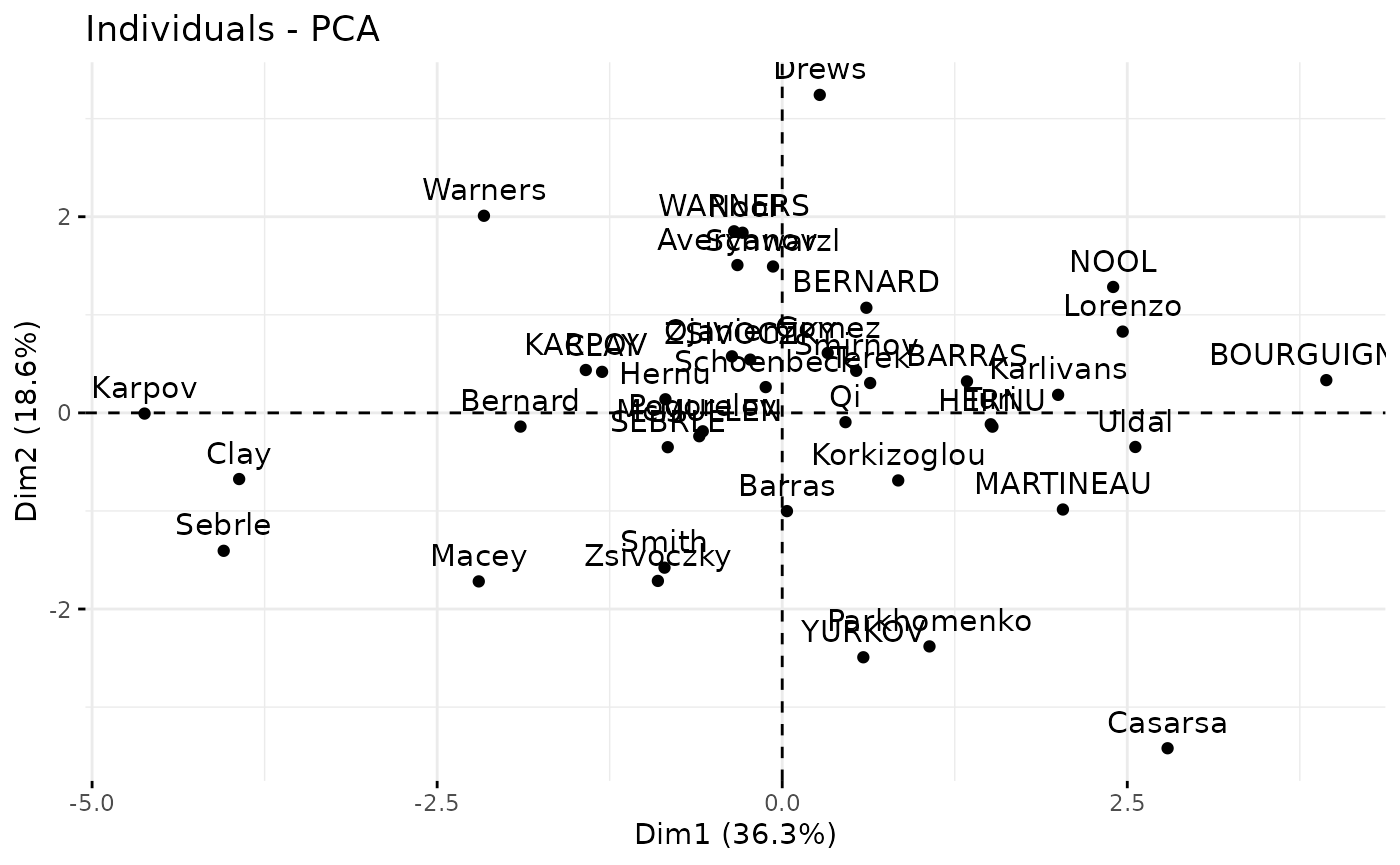
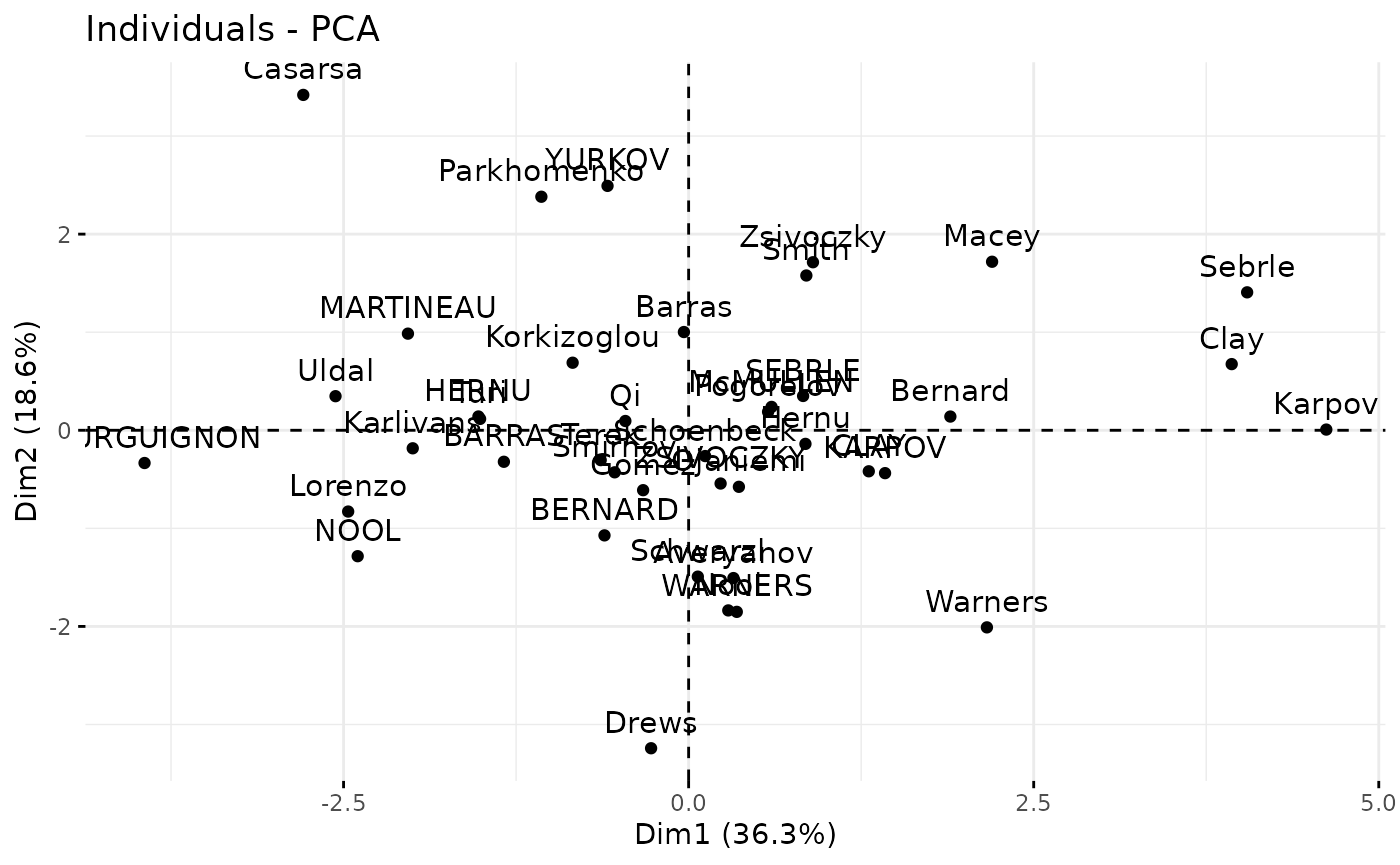
Deploying to gh-pages from @ alexym1/FactoMineR2@7524c19473789fed3b130e2c610a478fc69c338d 🚀

diff --git a/articles/Comparison.html b/articles/Comparison.html
@@ -30,7 +30,7 @@
 
     <a class="navbar-brand me-2" href="../index.html">FactoMineR2</a>
 
-    <small class="nav-text text-muted me-auto" data-bs-toggle="tooltip" data-bs-placement="bottom" title="Released version">0.2.0</small>
+    <small class="nav-text text-muted me-auto" data-bs-toggle="tooltip" data-bs-placement="bottom" title="Released version">0.2.1</small>
 
 
     <button class="navbar-toggler" type="button" data-bs-toggle="collapse" data-bs-target="#navbar" aria-controls="navbar" aria-expanded="false" aria-label="Toggle navigation">
@@ -103,12 +103,9 @@ packages.</p>
 <div class="sourceCode" id="cb3"><pre class="downlit sourceCode r">
 <code class="sourceCode R"><span><span class="co"># Get eigvalues and eigvectors with FactoMineR2</span></span>
 <span><span class="va">X_active</span> <span class="op">&lt;-</span> <span class="va">X</span><span class="op">[</span><span class="op">-</span><span class="fl">1</span>, <span class="op">-</span><span class="fl">10</span><span class="op">]</span></span>
+<span><span class="va">X_active_scaled</span> <span class="op">&lt;-</span> <span class="fu"><a href="../reference/standardize_norm.html">standardize</a></span><span class="op">(</span><span class="va">X_active</span>, scale <span class="op">=</span> <span class="cn">TRUE</span><span class="op">)</span></span>
 <span></span>
-<span><span class="va">X_active_scaled</span> <span class="op">&lt;-</span> <span class="va">X_active</span> <span class="op">|&gt;</span></span>
-<span>  <span class="fu"><a href="../reference/standardize_norm.html">standardize</a></span><span class="op">(</span>scale <span class="op">=</span> <span class="cn">TRUE</span><span class="op">)</span></span>
-<span></span>
-<span><span class="va">eigs</span> <span class="op">&lt;-</span> <span class="va">X_active_scaled</span> <span class="op">|&gt;</span></span>
-<span>    <span class="fu"><a href="../reference/get_eigen.html">get_weighted_eigen</a></span><span class="op">(</span><span class="op">)</span></span>
+<span><span class="va">eigs</span> <span class="op">&lt;-</span> <span class="fu"><a href="../reference/get_eigen.html">get_weighted_eigen</a></span><span class="op">(</span><span class="va">X_active_scaled</span><span class="op">)</span></span>
 <span></span>
 <span><span class="va">df_eigs</span> <span class="op">&lt;-</span> <span class="fu"><a href="https://rdrr.io/r/base/data.frame.html" class="external-link">data.frame</a></span><span class="op">(</span></span>
 <span>    eigenvalue <span class="op">=</span> <span class="va">eigs</span><span class="op">$</span><span class="va">values</span>,</span>
@@ -145,15 +142,15 @@ packages.</p>
 <span><span class="co">#&gt; ZSIVOCZKY  0.2692284 -0.4794763 -1.9969562 -0.258190426 -0.13749027</span></span></code></pre></div>
 <div class="sourceCode" id="cb5"><pre class="downlit sourceCode r">
 <code class="sourceCode R"><span><span class="co"># Get principal components with FactoMineR2</span></span>
-<span><span class="va">ind_coords</span> <span class="op">&lt;-</span> <span class="va">X_active_scaled</span> <span class="op">|&gt;</span> <span class="fu"><a href="../reference/pca_ind_coords.html">pca_ind_coords</a></span><span class="op">(</span><span class="va">eigs</span><span class="op">$</span><span class="va">vectors</span><span class="op">)</span></span>
-<span><span class="va">ind_coords</span><span class="op">[</span>,<span class="fl">1</span><span class="op">:</span><span class="fl">5</span><span class="op">]</span>  <span class="op">|&gt;</span> <span class="fu"><a href="https://rdrr.io/r/utils/head.html" class="external-link">head</a></span><span class="op">(</span><span class="op">)</span></span>
+<span><span class="va">ind_coords</span> <span class="op">&lt;-</span> <span class="fu"><a href="../reference/pca_ind_coords.html">pca_ind_coords</a></span><span class="op">(</span><span class="va">X_active_scaled</span>, <span class="va">eigs</span><span class="op">$</span><span class="va">vectors</span><span class="op">)</span></span>
+<span><span class="fu"><a href="https://rdrr.io/r/utils/head.html" class="external-link">head</a></span><span class="op">(</span><span class="va">ind_coords</span><span class="op">[</span>,<span class="fl">1</span><span class="op">:</span><span class="fl">5</span><span class="op">]</span><span class="op">)</span></span>
 <span><span class="co">#&gt;                Dim.1      Dim.2      Dim.3        Dim.4       Dim.5</span></span>
-<span><span class="co">#&gt; CLAY       1.3100544  0.4159492  0.5208056 -0.369856466  2.17766124</span></span>
-<span><span class="co">#&gt; KARPOV     1.4371854  0.4206194 -0.9485451 -2.055098128  0.08739926</span></span>
-<span><span class="co">#&gt; BERNARD   -0.6048025  1.1039234  2.2461329  0.308551094 -0.52147527</span></span>
-<span><span class="co">#&gt; YURKOV    -0.5701719 -2.4598460  0.6145443 -0.002631539 -1.26970612</span></span>
-<span><span class="co">#&gt; WARNERS    0.3739047  1.8369980 -0.4725537 -0.728066088 -0.69493980</span></span>
-<span><span class="co">#&gt; ZSIVOCZKY  0.2692284  0.4794763 -1.9969562  0.258190426  0.13749027</span></span></code></pre></div>
+<span><span class="co">#&gt; CLAY       1.3100544 -0.4159492  0.5208056  0.369856466 -2.17766124</span></span>
+<span><span class="co">#&gt; KARPOV     1.4371854 -0.4206194 -0.9485451  2.055098128 -0.08739926</span></span>
+<span><span class="co">#&gt; BERNARD   -0.6048025 -1.1039234  2.2461329 -0.308551094  0.52147527</span></span>
+<span><span class="co">#&gt; YURKOV    -0.5701719  2.4598460  0.6145443  0.002631539  1.26970612</span></span>
+<span><span class="co">#&gt; WARNERS    0.3739047 -1.8369980 -0.4725537  0.728066088  0.69493980</span></span>
+<span><span class="co">#&gt; ZSIVOCZKY  0.2692284 -0.4794763 -1.9969562 -0.258190426 -0.13749027</span></span></code></pre></div>
 <div class="sourceCode" id="cb6"><pre class="downlit sourceCode r">
 <code class="sourceCode R"><span><span class="co"># Get individual cos2 with FactoMineR</span></span>
 <span><span class="fu"><a href="https://rdrr.io/r/utils/head.html" class="external-link">head</a></span><span class="op">(</span><span class="va">res_pca</span><span class="op">$</span><span class="va">ind</span><span class="op">$</span><span class="va">cos2</span><span class="op">)</span></span>
@@ -166,8 +163,8 @@ packages.</p>
 <span><span class="co">#&gt; ZSIVOCZKY 0.01324414 0.04200650 0.72865053 1.218043e-02 0.003454030</span></span></code></pre></div>
 <div class="sourceCode" id="cb7"><pre class="downlit sourceCode r">
 <code class="sourceCode R"><span><span class="co"># Get individual cos2 with FactoMineR2</span></span>
-<span><span class="va">ind_cos2</span> <span class="op">&lt;-</span> <span class="va">ind_coords</span> <span class="op">|&gt;</span> <span class="fu"><a href="../reference/pca_ind_cos2.html">pca_ind_cos2</a></span><span class="op">(</span><span class="op">)</span></span>
-<span><span class="va">ind_cos2</span><span class="op">[</span>,<span class="fl">1</span><span class="op">:</span><span class="fl">5</span><span class="op">]</span> <span class="op">|&gt;</span> <span class="fu"><a href="https://rdrr.io/r/utils/head.html" class="external-link">head</a></span><span class="op">(</span><span class="op">)</span></span>
+<span><span class="va">ind_cos2</span> <span class="op">&lt;-</span> <span class="fu"><a href="../reference/pca_ind_cos2.html">pca_ind_cos2</a></span><span class="op">(</span><span class="va">ind_coords</span><span class="op">)</span></span>
+<span><span class="fu"><a href="https://rdrr.io/r/utils/head.html" class="external-link">head</a></span><span class="op">(</span><span class="va">ind_cos2</span><span class="op">[</span>,<span class="fl">1</span><span class="op">:</span><span class="fl">5</span><span class="op">]</span><span class="op">)</span></span>
 <span><span class="co">#&gt;                Dim.1      Dim.2      Dim.3        Dim.4       Dim.5</span></span>
 <span><span class="co">#&gt; CLAY      0.20619906 0.02078684 0.03258812 1.643518e-02 0.569755684</span></span>
 <span><span class="co">#&gt; KARPOV    0.25723191 0.02203321 0.11205086 5.259741e-01 0.000951294</span></span>
@@ -187,8 +184,8 @@ packages.</p>
 <span><span class="co">#&gt; ZSIVOCZKY 0.05521748 0.3402134  9.3620727 1.943986e-01  0.07443229</span></span></code></pre></div>
 <div class="sourceCode" id="cb9"><pre class="downlit sourceCode r">
 <code class="sourceCode R"><span><span class="co"># Get individual contributions with FactoMineR2</span></span>
-<span><span class="va">ind_contrib</span> <span class="op">&lt;-</span> <span class="va">ind_coords</span> <span class="op">|&gt;</span> <span class="fu"><a href="../reference/pca_ind_contrib.html">pca_ind_contrib</a></span><span class="op">(</span><span class="va">df_eigs</span><span class="op">$</span><span class="va">eigenvalue</span><span class="op">)</span></span>
-<span><span class="va">ind_contrib</span><span class="op">[</span>,<span class="fl">1</span><span class="op">:</span><span class="fl">5</span><span class="op">]</span> <span class="op">|&gt;</span> <span class="fu"><a href="https://rdrr.io/r/utils/head.html" class="external-link">head</a></span><span class="op">(</span><span class="op">)</span></span>
+<span><span class="va">ind_contrib</span> <span class="op">&lt;-</span> <span class="fu"><a href="../reference/pca_ind_contrib.html">pca_ind_contrib</a></span><span class="op">(</span><span class="va">ind_coords</span>, <span class="va">df_eigs</span><span class="op">$</span><span class="va">eigenvalue</span><span class="op">)</span></span>
+<span><span class="fu"><a href="https://rdrr.io/r/utils/head.html" class="external-link">head</a></span><span class="op">(</span><span class="va">ind_contrib</span><span class="op">[</span>,<span class="fl">1</span><span class="op">:</span><span class="fl">5</span><span class="op">]</span><span class="op">)</span></span>
 <span><span class="co">#&gt;                Dim.1     Dim.2      Dim.3        Dim.4       Dim.5</span></span>
 <span><span class="co">#&gt; CLAY      1.30741518 0.2560340  0.6367752 3.989140e-01 18.67231141</span></span>
 <span><span class="co">#&gt; KARPOV    1.57347720 0.2618157  2.1122769 1.231623e+01  0.03007689</span></span>
@@ -216,7 +213,7 @@ packages.</p>
 <span><span class="va">ind_sup_coords</span> <span class="op">&lt;-</span> <span class="va">X_sup_scaled</span> <span class="op">|&gt;</span> <span class="fu"><a href="../reference/pca_ind_coords.html">pca_ind_coords</a></span><span class="op">(</span><span class="va">eigs</span><span class="op">$</span><span class="va">vectors</span><span class="op">)</span></span>
 <span><span class="va">ind_sup_coords</span><span class="op">[</span>,<span class="fl">1</span><span class="op">:</span><span class="fl">5</span><span class="op">]</span></span>
 <span><span class="co">#&gt;      Dim.1      Dim.2      Dim.3      Dim.4      Dim.5 </span></span>
-<span><span class="co">#&gt;  0.8344973 -0.3186264  1.2145584  0.2014840 -1.2818827</span></span></code></pre></div>
+<span><span class="co">#&gt;  0.8344973  0.3186264  1.2145584 -0.2014840  1.2818827</span></span></code></pre></div>
 <div class="sourceCode" id="cb12"><pre class="downlit sourceCode r">
 <code class="sourceCode R"><span><span class="co"># Get supplementary individuals cos2 with FactoMineR</span></span>
 <span><span class="va">res_pca</span><span class="op">$</span><span class="va">ind.sup</span><span class="op">$</span><span class="va">cos2</span></span>
@@ -224,7 +221,7 @@ packages.</p>
 <span><span class="co">#&gt; SEBRLE 0.1505617 0.02194968 0.3189345 0.008776992 0.3552722</span></span></code></pre></div>
 <div class="sourceCode" id="cb13"><pre class="downlit sourceCode r">
 <code class="sourceCode R"><span><span class="co"># Get supplementary individuals cos2 with FactoMineR2</span></span>
-<span><span class="va">ind_sup_cos2</span> <span class="op">&lt;-</span> <span class="va">ind_sup_coords</span> <span class="op">|&gt;</span> <span class="fu"><a href="../reference/pca_ind_cos2.html">pca_ind_cos2</a></span><span class="op">(</span><span class="op">)</span></span>
+<span><span class="va">ind_sup_cos2</span> <span class="op">&lt;-</span> <span class="fu"><a href="../reference/pca_ind_cos2.html">pca_ind_cos2</a></span><span class="op">(</span><span class="va">ind_sup_coords</span><span class="op">)</span></span>
 <span><span class="va">ind_sup_cos2</span><span class="op">[</span>,<span class="fl">1</span><span class="op">:</span><span class="fl">5</span><span class="op">]</span></span>
 <span><span class="co">#&gt;       Dim.1       Dim.2       Dim.3       Dim.4       Dim.5 </span></span>
 <span><span class="co">#&gt; 0.150561716 0.021949682 0.318934499 0.008776992 0.355272243</span></span></code></pre></div>
@@ -244,15 +241,15 @@ packages.</p>
 <span><span class="co">#&gt; 110m.hurdle -0.7510101  0.2498147  0.23834558 -0.06295776  0.22508937</span></span></code></pre></div>
 <div class="sourceCode" id="cb15"><pre class="downlit sourceCode r">
 <code class="sourceCode R"><span><span class="co"># Get variable coordinates with FactoMineR2</span></span>
-<span><span class="va">var_coords</span> <span class="op">&lt;-</span> <span class="va">df_eigs</span><span class="op">$</span><span class="va">eigenvalue</span> <span class="op">|&gt;</span> <span class="fu"><a href="../reference/pca_var_coords.html">pca_var_coords</a></span><span class="op">(</span><span class="va">eigs</span><span class="op">$</span><span class="va">vectors</span><span class="op">)</span></span>
-<span><span class="va">var_coords</span><span class="op">[</span>,<span class="fl">1</span><span class="op">:</span><span class="fl">5</span><span class="op">]</span> <span class="op">|&gt;</span> <span class="fu"><a href="https://rdrr.io/r/utils/head.html" class="external-link">head</a></span><span class="op">(</span><span class="op">)</span></span>
+<span><span class="va">var_coords</span> <span class="op">&lt;-</span> <span class="fu"><a href="../reference/pca_var_coords.html">pca_var_coords</a></span><span class="op">(</span><span class="va">df_eigs</span><span class="op">$</span><span class="va">eigenvalue</span>, <span class="va">eigs</span><span class="op">$</span><span class="va">vectors</span><span class="op">)</span></span>
+<span><span class="fu"><a href="https://rdrr.io/r/utils/head.html" class="external-link">head</a></span><span class="op">(</span><span class="va">var_coords</span><span class="op">[</span>,<span class="fl">1</span><span class="op">:</span><span class="fl">5</span><span class="op">]</span><span class="op">)</span></span>
 <span><span class="co">#&gt;                  Dim.1      Dim.2       Dim.3       Dim.4       Dim.5</span></span>
-<span><span class="co">#&gt; 100m        -0.7802087 -0.2474540 -0.07802294 -0.15739065 -0.10348090</span></span>
-<span><span class="co">#&gt; Long.jump    0.7418925  0.4073126  0.05696965  0.10200465 -0.12853454</span></span>
-<span><span class="co">#&gt; Shot.put     0.6230146 -0.5713999  0.28623659 -0.22239225  0.02547125</span></span>
-<span><span class="co">#&gt; High.jump    0.5704197 -0.4191676 -0.24210464 -0.09178538 -0.63728214</span></span>
-<span><span class="co">#&gt; 400m        -0.6756524 -0.4720254  0.12379407 -0.12444012  0.02216888</span></span>
-<span><span class="co">#&gt; 110m.hurdle -0.7510101 -0.2498147  0.23834558  0.06295776 -0.22508937</span></span></code></pre></div>
+<span><span class="co">#&gt; 100m        -0.7802087  0.2474540 -0.07802294  0.15739065  0.10348090</span></span>
+<span><span class="co">#&gt; Long.jump    0.7418925 -0.4073126  0.05696965 -0.10200465  0.12853454</span></span>
+<span><span class="co">#&gt; Shot.put     0.6230146  0.5713999  0.28623659  0.22239225 -0.02547125</span></span>
+<span><span class="co">#&gt; High.jump    0.5704197  0.4191676 -0.24210464  0.09178538  0.63728214</span></span>
+<span><span class="co">#&gt; 400m        -0.6756524  0.4720254  0.12379407  0.12444012 -0.02216888</span></span>
+<span><span class="co">#&gt; 110m.hurdle -0.7510101  0.2498147  0.23834558 -0.06295776  0.22508937</span></span></code></pre></div>
 <div class="sourceCode" id="cb16"><pre class="downlit sourceCode r">
 <code class="sourceCode R"><span><span class="co"># Get variable cos2 with FactoMineR</span></span>
 <span><span class="fu"><a href="https://rdrr.io/r/utils/head.html" class="external-link">head</a></span><span class="op">(</span><span class="va">res_pca</span><span class="op">$</span><span class="va">var</span><span class="op">$</span><span class="va">cos2</span><span class="op">)</span></span>
@@ -265,8 +262,8 @@ packages.</p>
 <span><span class="co">#&gt; 110m.hurdle 0.5640162 0.06240739 0.056808617 0.003963679 0.0506652236</span></span></code></pre></div>
 <div class="sourceCode" id="cb17"><pre class="downlit sourceCode r">
 <code class="sourceCode R"><span><span class="co"># Get variable cos2 with FactoMineR2</span></span>
-<span><span class="va">var_cos2</span> <span class="op">&lt;-</span> <span class="va">var_coords</span> <span class="op">|&gt;</span> <span class="fu"><a href="../reference/pca_var_cos2.html">pca_var_cos2</a></span><span class="op">(</span><span class="op">)</span></span>
-<span><span class="va">var_cos2</span><span class="op">[</span>,<span class="fl">1</span><span class="op">:</span><span class="fl">5</span><span class="op">]</span> <span class="op">|&gt;</span> <span class="fu"><a href="https://rdrr.io/r/utils/head.html" class="external-link">head</a></span><span class="op">(</span><span class="op">)</span></span>
+<span><span class="va">var_cos2</span> <span class="op">&lt;-</span> <span class="fu"><a href="../reference/pca_var_cos2.html">pca_var_cos2</a></span><span class="op">(</span><span class="va">var_coords</span><span class="op">)</span></span>
+<span><span class="fu"><a href="https://rdrr.io/r/utils/head.html" class="external-link">head</a></span><span class="op">(</span><span class="va">var_cos2</span><span class="op">[</span>,<span class="fl">1</span><span class="op">:</span><span class="fl">5</span><span class="op">]</span><span class="op">)</span></span>
 <span><span class="co">#&gt;                 Dim.1      Dim.2       Dim.3       Dim.4        Dim.5</span></span>
 <span><span class="co">#&gt; 100m        0.6087256 0.06123346 0.006087579 0.024771818 0.0107082970</span></span>
 <span><span class="co">#&gt; Long.jump   0.5504045 0.16590352 0.003245541 0.010404949 0.0165211277</span></span>
@@ -286,8 +283,8 @@ packages.</p>
 <span><span class="co">#&gt; 110m.hurdle 17.18646  3.694139 5.3346892 0.4623504  7.97971527</span></span></code></pre></div>
 <div class="sourceCode" id="cb19"><pre class="downlit sourceCode r">
 <code class="sourceCode R"><span><span class="co"># Get variable contributions with FactoMineR2</span></span>
-<span><span class="va">var_contrib</span> <span class="op">&lt;-</span> <span class="va">var_cos2</span> <span class="op">|&gt;</span> <span class="fu"><a href="../reference/pca_var_contrib.html">pca_var_contrib</a></span><span class="op">(</span><span class="op">)</span></span>
-<span><span class="va">var_contrib</span><span class="op">[</span>,<span class="fl">1</span><span class="op">:</span><span class="fl">5</span><span class="op">]</span> <span class="op">|&gt;</span> <span class="fu"><a href="https://rdrr.io/r/utils/head.html" class="external-link">head</a></span><span class="op">(</span><span class="op">)</span></span>
+<span><span class="va">var_contrib</span> <span class="op">&lt;-</span> <span class="fu"><a href="../reference/pca_var_contrib.html">pca_var_contrib</a></span><span class="op">(</span><span class="va">var_cos2</span><span class="op">)</span></span>
+<span><span class="fu"><a href="https://rdrr.io/r/utils/head.html" class="external-link">head</a></span><span class="op">(</span><span class="va">var_contrib</span><span class="op">[</span>,<span class="fl">1</span><span class="op">:</span><span class="fl">5</span><span class="op">]</span><span class="op">)</span></span>
 <span><span class="co">#&gt;                Dim.1     Dim.2     Dim.3     Dim.4       Dim.5</span></span>
 <span><span class="co">#&gt; 100m        18.54882  3.624649 0.5716623 2.8895531  1.68654464</span></span>
 <span><span class="co">#&gt; Long.jump   16.77169  9.820481 0.3047769 1.2137039  2.60205888</span></span>
@@ -307,14 +304,9 @@ packages.</p>
 <div class="sourceCode" id="cb21"><pre class="downlit sourceCode r">
 <code class="sourceCode R"><span><span class="co"># Get supplementary CONTINUOUS variables coordinates with FactoMineR2</span></span>
 <span><span class="va">X_sup</span> <span class="op">&lt;-</span> <span class="va">X</span><span class="op">[</span><span class="op">-</span><span class="fl">1</span>, <span class="fl">10</span>, drop <span class="op">=</span> <span class="cn">FALSE</span><span class="op">]</span></span>
+<span><span class="va">X_sup_scaled</span> <span class="op">&lt;-</span> <span class="fu"><a href="../reference/standardize_norm.html">standardize</a></span><span class="op">(</span><span class="va">X_sup</span>, scale <span class="op">=</span> <span class="cn">TRUE</span><span class="op">)</span></span>
 <span></span>
-<span><span class="va">center</span> <span class="op">&lt;-</span> <span class="fu"><a href="https://rdrr.io/r/base/vector.html" class="external-link">as.vector</a></span><span class="op">(</span><span class="fu"><a href="https://rdrr.io/r/base/crossprod.html" class="external-link">crossprod</a></span><span class="op">(</span><span class="va">weights</span>, <span class="fu"><a href="https://rdrr.io/r/base/matrix.html" class="external-link">as.matrix</a></span><span class="op">(</span><span class="va">X_sup</span><span class="op">)</span><span class="op">)</span><span class="op">)</span></span>
-<span><span class="va">std</span> <span class="op">&lt;-</span> <span class="fu"><a href="https://rdrr.io/r/base/MathFun.html" class="external-link">sqrt</a></span><span class="op">(</span><span class="fu"><a href="https://rdrr.io/r/base/vector.html" class="external-link">as.vector</a></span><span class="op">(</span><span class="fu"><a href="https://rdrr.io/r/base/crossprod.html" class="external-link">crossprod</a></span><span class="op">(</span><span class="va">weights</span>, <span class="fu"><a href="https://rdrr.io/r/base/matrix.html" class="external-link">as.matrix</a></span><span class="op">(</span><span class="va">X_sup</span><span class="op">^</span><span class="fl">2</span><span class="op">)</span><span class="op">)</span> <span class="op">-</span> <span class="va">center</span><span class="op">^</span><span class="fl">2</span><span class="op">)</span><span class="op">)</span> </span>
-<span><span class="va">X_sup_scaled</span> <span class="op">&lt;-</span> <span class="op">(</span><span class="va">X_sup</span> <span class="op">-</span> <span class="va">center</span><span class="op">)</span> <span class="op">/</span> <span class="va">std</span> </span>
-<span></span>
-<span><span class="va">A</span> <span class="op">&lt;-</span> <span class="fu"><a href="https://rdrr.io/r/base/t.html" class="external-link">t</a></span><span class="op">(</span><span class="va">X_sup_scaled</span> <span class="op">*</span> <span class="va">weights</span><span class="op">)</span></span>
-<span><span class="va">U</span> <span class="op">&lt;-</span> <span class="fu"><a href="https://rdrr.io/pkg/FactoMineR/man/svd.triplet.html" class="external-link">svd.triplet</a></span><span class="op">(</span><span class="va">X_active_scaled</span><span class="op">)</span><span class="op">$</span><span class="va">U</span></span>
-<span><span class="va">var_sup_coords</span> <span class="op">&lt;-</span> <span class="va">A</span> <span class="op"><a href="https://rdrr.io/r/base/matmult.html" class="external-link">%*%</a></span> <span class="va">U</span></span>
+<span><span class="va">var_sup_coords</span> <span class="op">&lt;-</span> <span class="fu"><a href="https://rdrr.io/r/base/t.html" class="external-link">t</a></span><span class="op">(</span><span class="va">X_sup_scaled</span> <span class="op">*</span> <span class="va">weights</span><span class="op">)</span> <span class="op"><a href="https://rdrr.io/r/base/matmult.html" class="external-link">%*%</a></span> <span class="va">eigs</span><span class="op">$</span><span class="va">U</span></span>
 <span><span class="va">var_sup_coords</span><span class="op">[</span>,<span class="fl">1</span><span class="op">:</span><span class="fl">5</span><span class="op">]</span></span>
 <span><span class="co">#&gt; [1] -0.05231146  0.11429210  0.13963364  0.46213713 -0.19646090</span></span></code></pre></div>
 <div class="sourceCode" id="cb22"><pre class="downlit sourceCode r">
@@ -324,7 +316,7 @@ packages.</p>
 <span><span class="co">#&gt; 1500m 0.002736489 0.01306268 0.01949755 0.2135707 0.03859689</span></span></code></pre></div>
 <div class="sourceCode" id="cb23"><pre class="downlit sourceCode r">
 <code class="sourceCode R"><span><span class="co"># Get supplementary variables cos2 with FactoMineR2</span></span>
-<span><span class="va">var_sup_cos2</span> <span class="op">&lt;-</span> <span class="va">var_sup_coords</span> <span class="op">|&gt;</span> <span class="fu"><a href="../reference/pca_var_cos2.html">pca_var_cos2</a></span><span class="op">(</span><span class="op">)</span></span>
+<span><span class="va">var_sup_cos2</span> <span class="op">&lt;-</span> <span class="fu"><a href="../reference/pca_var_cos2.html">pca_var_cos2</a></span><span class="op">(</span><span class="va">var_sup_coords</span><span class="op">)</span></span>
 <span><span class="va">var_sup_cos2</span><span class="op">[</span>,<span class="fl">1</span><span class="op">:</span><span class="fl">5</span><span class="op">]</span></span>
 <span><span class="co">#&gt; [1] 0.002736489 0.013062684 0.019497553 0.213570730 0.038596885</span></span></code></pre></div>
 </div>

diff --git a/reference/pca_ind_coords.html b/reference/pca_ind_coords.html
@@ -7,7 +7,7 @@
 
     <a class="navbar-brand me-2" href="../index.html">FactoMineR2</a>
 
-    <small class="nav-text text-muted me-auto" data-bs-toggle="tooltip" data-bs-placement="bottom" title="Released version">0.2.0</small>
+    <small class="nav-text text-muted me-auto" data-bs-toggle="tooltip" data-bs-placement="bottom" title="Released version">0.2.1</small>
 
 
     <button class="navbar-toggler" type="button" data-bs-toggle="collapse" data-bs-target="#navbar" aria-controls="navbar" aria-expanded="false" aria-label="Toggle navigation">
@@ -74,13 +74,13 @@
 <span class="r-in"><span><span class="va">X_active</span> <span class="op">|&gt;</span></span></span>
 <span class="r-in"><span>  <span class="fu">pca_ind_coords</span><span class="op">(</span><span class="va">eigs</span><span class="op">$</span><span class="va">vectors</span><span class="op">)</span> <span class="op">|&gt;</span></span></span>
 <span class="r-in"><span>  <span class="fu"><a href="https://rdrr.io/r/utils/head.html" class="external-link">head</a></span><span class="op">(</span><span class="op">)</span></span></span>
-<span class="r-out co"><span class="r-pr">#&gt;</span>         Dim.1      Dim.2       Dim.3        Dim.4</span>
-<span class="r-out co"><span class="r-pr">#&gt;</span> [1,] 2.257141  0.4784238 -0.12727962 -0.024087508</span>
-<span class="r-out co"><span class="r-pr">#&gt;</span> [2,] 2.074013 -0.6718827 -0.23382552 -0.102662845</span>
-<span class="r-out co"><span class="r-pr">#&gt;</span> [3,] 2.356335 -0.3407664  0.04405390 -0.028282305</span>
-<span class="r-out co"><span class="r-pr">#&gt;</span> [4,] 2.291707 -0.5953999  0.09098530  0.065735340</span>
-<span class="r-out co"><span class="r-pr">#&gt;</span> [5,] 2.381863  0.6446757  0.01568565  0.035802870</span>
-<span class="r-out co"><span class="r-pr">#&gt;</span> [6,] 2.068701  1.4842053  0.02687825 -0.006586116</span>
+<span class="r-out co"><span class="r-pr">#&gt;</span>          Dim.1      Dim.2       Dim.3        Dim.4</span>
+<span class="r-out co"><span class="r-pr">#&gt;</span> [1,] -2.257141 -0.4784238  0.12727962  0.024087508</span>
+<span class="r-out co"><span class="r-pr">#&gt;</span> [2,] -2.074013  0.6718827  0.23382552  0.102662845</span>
+<span class="r-out co"><span class="r-pr">#&gt;</span> [3,] -2.356335  0.3407664 -0.04405390  0.028282305</span>
+<span class="r-out co"><span class="r-pr">#&gt;</span> [4,] -2.291707  0.5953999 -0.09098530 -0.065735340</span>
+<span class="r-out co"><span class="r-pr">#&gt;</span> [5,] -2.381863 -0.6446757 -0.01568565 -0.035802870</span>
+<span class="r-out co"><span class="r-pr">#&gt;</span> [6,] -2.068701 -1.4842053 -0.02687825  0.006586116</span>
 </code></pre></div>
     </div>
   </main><aside class="col-md-3"><nav id="toc" aria-label="Table of contents"><h2>On this page</h2>

diff --git a/reference/pca_var_coords.html b/reference/pca_var_coords.html
@@ -7,7 +7,7 @@
 
     <a class="navbar-brand me-2" href="../index.html">FactoMineR2</a>
 
-    <small class="nav-text text-muted me-auto" data-bs-toggle="tooltip" data-bs-placement="bottom" title="Released version">0.2.0</small>
+    <small class="nav-text text-muted me-auto" data-bs-toggle="tooltip" data-bs-placement="bottom" title="Released version">0.2.1</small>
 
 
     <button class="navbar-toggler" type="button" data-bs-toggle="collapse" data-bs-target="#navbar" aria-controls="navbar" aria-expanded="false" aria-label="Toggle navigation">
@@ -76,11 +76,11 @@
 <span class="r-in"><span><span class="va">eigs</span><span class="op">$</span><span class="va">values</span> <span class="op">|&gt;</span></span></span>
 <span class="r-in"><span>  <span class="fu">pca_var_coords</span><span class="op">(</span><span class="va">eigs</span><span class="op">$</span><span class="va">vectors</span><span class="op">)</span> <span class="op">|&gt;</span></span></span>
 <span class="r-in"><span>  <span class="fu"><a href="https://rdrr.io/r/utils/head.html" class="external-link">head</a></span><span class="op">(</span><span class="op">)</span></span></span>
-<span class="r-out co"><span class="r-pr">#&gt;</span>                   Dim.1      Dim.2       Dim.3       Dim.4</span>
-<span class="r-out co"><span class="r-pr">#&gt;</span> Sepal.Length -0.8901688 0.36082989 -0.27565767 -0.03760602</span>
-<span class="r-out co"><span class="r-pr">#&gt;</span> Sepal.Width   0.4601427 0.88271627  0.09361987  0.01777631</span>
-<span class="r-out co"><span class="r-pr">#&gt;</span> Petal.Length -0.9915552 0.02341519  0.05444699  0.11534978</span>
-<span class="r-out co"><span class="r-pr">#&gt;</span> Petal.Width  -0.9649790 0.06399985  0.24298265 -0.07535950</span>
+<span class="r-out co"><span class="r-pr">#&gt;</span>                   Dim.1       Dim.2       Dim.3       Dim.4</span>
+<span class="r-out co"><span class="r-pr">#&gt;</span> Sepal.Length  0.8901688 -0.36082989  0.27565767  0.03760602</span>
+<span class="r-out co"><span class="r-pr">#&gt;</span> Sepal.Width  -0.4601427 -0.88271627 -0.09361987 -0.01777631</span>
+<span class="r-out co"><span class="r-pr">#&gt;</span> Petal.Length  0.9915552 -0.02341519 -0.05444699 -0.11534978</span>
+<span class="r-out co"><span class="r-pr">#&gt;</span> Petal.Width   0.9649790 -0.06399985 -0.24298265  0.07535950</span>
 </code></pre></div>
     </div>
   </main><aside class="col-md-3"><nav id="toc" aria-label="Table of contents"><h2>On this page</h2>

diff --git a/news/index.html b/news/index.html
@@ -7,7 +7,7 @@
 
     <a class="navbar-brand me-2" href="../index.html">FactoMineR2</a>
 
-    <small class="nav-text text-muted me-auto" data-bs-toggle="tooltip" data-bs-placement="bottom" title="Released version">0.2.0</small>
+    <small class="nav-text text-muted me-auto" data-bs-toggle="tooltip" data-bs-placement="bottom" title="Released version">0.2.1</small>
 
 
     <button class="navbar-toggler" type="button" data-bs-toggle="collapse" data-bs-target="#navbar" aria-controls="navbar" aria-expanded="false" aria-label="Toggle navigation">
@@ -38,6 +38,15 @@
       <small>Source: <a href="https://github.com/alexym1/FactoMineR2/blob/master/NEWS.md" class="external-link"><code>NEWS.md</code></a></small>
     </div>
 
+    <div class="section level2">
+<h2 class="pkg-version" data-toc-text="0.2.1" id="factominer2-021">FactoMineR2 0.2.1<a class="anchor" aria-label="anchor" href="#factominer2-021"></a></h2>
+<ul><li>
+<code><a href="../reference/get_eigen.html">get_weighted_eigen()</a></code> now returns U matrix as expected (<a href="https://github.com/alexym1/FactoMineR2/issues/4" class="external-link">#4</a>)</li>
+<li>
+<code><a href="../reference/pca_ind_coords.html">pca_ind_coords()</a></code> &amp; <code><a href="../reference/pca_var_coords.html">pca_var_coords()</a></code> return same signs of the corresponding coordinates as FactoMineR.</li>
+<li>
+<code><a href="../reference/facto_pca.html">facto_pca()</a></code> has been updated. Now, it returns the same output as <code><a href="https://rdrr.io/pkg/FactoMineR/man/PCA.html" class="external-link">FactoMineR::PCA()</a></code>.</li>
+</ul></div>
     <div class="section level2">
 <h2 class="pkg-version" data-toc-text="0.2.0" id="factominer2-020">FactoMineR2 0.2.0<a class="anchor" aria-label="anchor" href="#factominer2-020"></a></h2>
 <ul><li><p><code><a href="../reference/facto_pca.html">facto_pca()</a></code> is a wrapper function that mimics <code><a href="https://rdrr.io/pkg/FactoMineR/man/PCA.html" class="external-link">FactoMineR::PCA()</a></code>.</p></li>

diff --git a/authors.html b/authors.html
@@ -7,7 +7,7 @@
 
     <a class="navbar-brand me-2" href="index.html">FactoMineR2</a>
 
-    <small class="nav-text text-muted me-auto" data-bs-toggle="tooltip" data-bs-placement="bottom" title="Released version">0.2.0</small>
+    <small class="nav-text text-muted me-auto" data-bs-toggle="tooltip" data-bs-placement="bottom" title="Released version">0.2.1</small>
 
 
     <button class="navbar-toggler" type="button" data-bs-toggle="collapse" data-bs-target="#navbar" aria-controls="navbar" aria-expanded="false" aria-label="Toggle navigation">
@@ -52,13 +52,13 @@
 
       <p>Martinez A (2024).
 <em>FactoMineR2: Multivariate exploratory data analysis in R</em>.
-R package version 0.2.0, https://alexym1.github.io/FactoMineR2, <a href="https://github.com/alexym1/FactoMineR2" class="external-link">https://github.com/alexym1/FactoMineR2</a>.
+R package version 0.2.1, https://alexym1.github.io/FactoMineR2, <a href="https://github.com/alexym1/FactoMineR2" class="external-link">https://github.com/alexym1/FactoMineR2</a>.
 </p>
       <pre>@Manual{,
   title = {FactoMineR2: Multivariate exploratory data analysis in R},
   author = {Alex Martinez},
   year = {2024},
-  note = {R package version 0.2.0, https://alexym1.github.io/FactoMineR2},
+  note = {R package version 0.2.1, https://alexym1.github.io/FactoMineR2},
   url = {https://github.com/alexym1/FactoMineR2},
 }</pre>
     </div>

diff --git a/CONTRIBUTING.html b/CONTRIBUTING.html
@@ -7,7 +7,7 @@
 
     <a class="navbar-brand me-2" href="index.html">FactoMineR2</a>
 
-    <small class="nav-text text-muted me-auto" data-bs-toggle="tooltip" data-bs-placement="bottom" title="Released version">0.2.0</small>
+    <small class="nav-text text-muted me-auto" data-bs-toggle="tooltip" data-bs-placement="bottom" title="Released version">0.2.1</small>
 
 
     <button class="navbar-toggler" type="button" data-bs-toggle="collapse" data-bs-target="#navbar" aria-controls="navbar" aria-expanded="false" aria-label="Toggle navigation">
@@ -91,7 +91,7 @@
 <li><ol start="4" style="list-style-type: decimal"><li>Copy/Paste the latest bullet of <code>NEWS.md</code> in the PR description.</li>
 </ol></li>
 <li>
-<ol start="5" style="list-style-type: decimal"><li>If your code is approved, bump to version the following files:</li>
+<ol start="5" style="list-style-type: decimal"><li>Bump to version the following files:</li>
 </ol><ul><li><code>Description</code></li>
 <li><code>NEWS.md</code></li>
 <li><code>README.Rmd</code></li>

diff --git a/404.html b/404.html
@@ -26,7 +26,7 @@
 
     <a class="navbar-brand me-2" href="https://alexym1.github.io/FactoMineR2/index.html">FactoMineR2</a>
 
-    <small class="nav-text text-muted me-auto" data-bs-toggle="tooltip" data-bs-placement="bottom" title="Released version">0.2.0</small>
+    <small class="nav-text text-muted me-auto" data-bs-toggle="tooltip" data-bs-placement="bottom" title="Released version">0.2.1</small>
 
 
     <button class="navbar-toggler" type="button" data-bs-toggle="collapse" data-bs-target="#navbar" aria-controls="navbar" aria-expanded="false" aria-label="Toggle navigation">

diff --git a/articles/FactoMineR2.html b/articles/FactoMineR2.html
@@ -30,7 +30,7 @@
 
     <a class="navbar-brand me-2" href="../index.html">FactoMineR2</a>
 
-    <small class="nav-text text-muted me-auto" data-bs-toggle="tooltip" data-bs-placement="bottom" title="Released version">0.2.0</small>
+    <small class="nav-text text-muted me-auto" data-bs-toggle="tooltip" data-bs-placement="bottom" title="Released version">0.2.1</small>
 
 
     <button class="navbar-toggler" type="button" data-bs-toggle="collapse" data-bs-target="#navbar" aria-controls="navbar" aria-expanded="false" aria-label="Toggle navigation">

diff --git a/articles/extensions.html b/articles/extensions.html
@@ -30,7 +30,7 @@
 
     <a class="navbar-brand me-2" href="../index.html">FactoMineR2</a>
 
-    <small class="nav-text text-muted me-auto" data-bs-toggle="tooltip" data-bs-placement="bottom" title="Released version">0.2.0</small>
+    <small class="nav-text text-muted me-auto" data-bs-toggle="tooltip" data-bs-placement="bottom" title="Released version">0.2.1</small>
 
 
     <button class="navbar-toggler" type="button" data-bs-toggle="collapse" data-bs-target="#navbar" aria-controls="navbar" aria-expanded="false" aria-label="Toggle navigation">

diff --git a/articles/index.html b/articles/index.html
@@ -7,7 +7,7 @@
 
     <a class="navbar-brand me-2" href="../index.html">FactoMineR2</a>
 
-    <small class="nav-text text-muted me-auto" data-bs-toggle="tooltip" data-bs-placement="bottom" title="Released version">0.2.0</small>
+    <small class="nav-text text-muted me-auto" data-bs-toggle="tooltip" data-bs-placement="bottom" title="Released version">0.2.1</small>
 
 
     <button class="navbar-toggler" type="button" data-bs-toggle="collapse" data-bs-target="#navbar" aria-controls="navbar" aria-expanded="false" aria-label="Toggle navigation">

diff --git a/reference/facto_pca.html b/reference/facto_pca.html
@@ -7,7 +7,7 @@
 
     <a class="navbar-brand me-2" href="../index.html">FactoMineR2</a>
 
-    <small class="nav-text text-muted me-auto" data-bs-toggle="tooltip" data-bs-placement="bottom" title="Released version">0.2.0</small>
+    <small class="nav-text text-muted me-auto" data-bs-toggle="tooltip" data-bs-placement="bottom" title="Released version">0.2.1</small>
 
 
     <button class="navbar-toggler" type="button" data-bs-toggle="collapse" data-bs-target="#navbar" aria-controls="navbar" aria-expanded="false" aria-label="Toggle navigation">

diff --git a/reference/get_eigen.html b/reference/get_eigen.html
@@ -7,7 +7,7 @@
 
     <a class="navbar-brand me-2" href="../index.html">FactoMineR2</a>
 
-    <small class="nav-text text-muted me-auto" data-bs-toggle="tooltip" data-bs-placement="bottom" title="Released version">0.2.0</small>
+    <small class="nav-text text-muted me-auto" data-bs-toggle="tooltip" data-bs-placement="bottom" title="Released version">0.2.1</small>
 
 
     <button class="navbar-toggler" type="button" data-bs-toggle="collapse" data-bs-target="#navbar" aria-controls="navbar" aria-expanded="false" aria-label="Toggle navigation">
